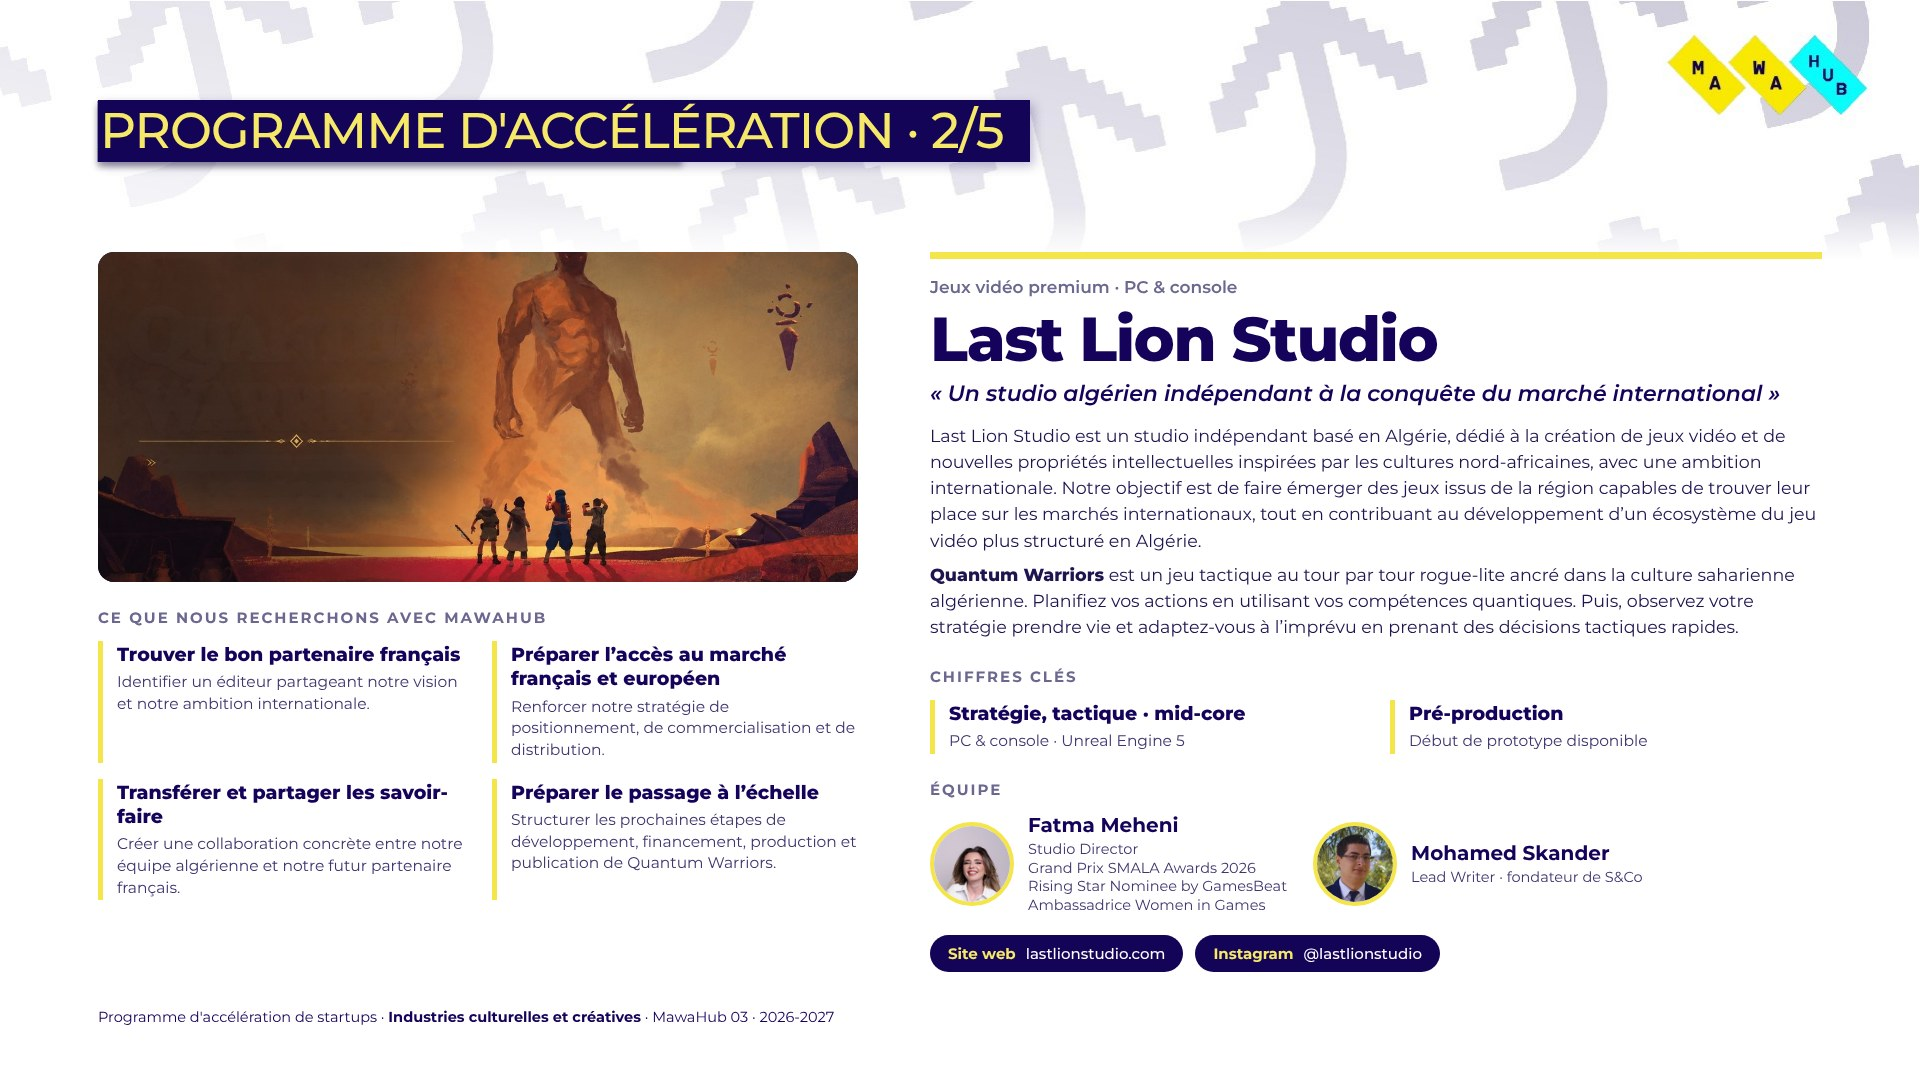
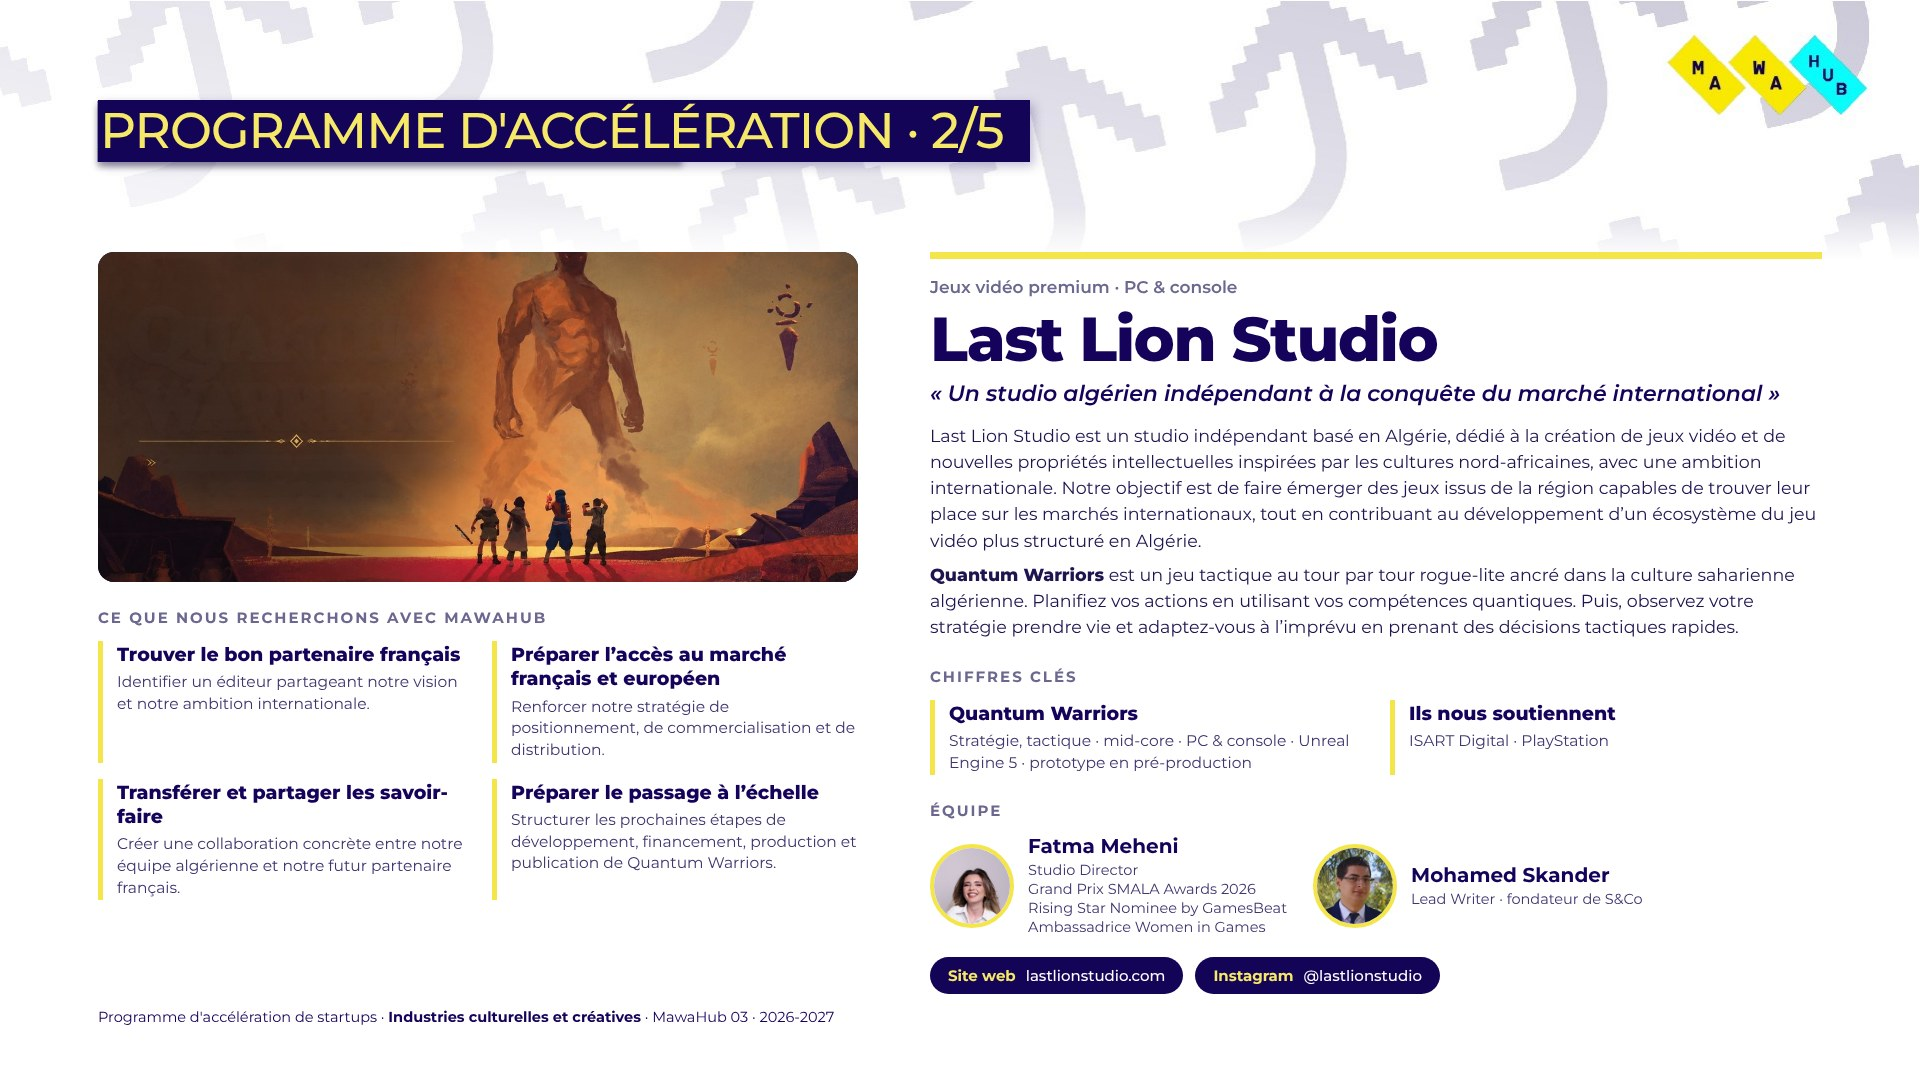
Accélération : soutiens de Last Lion Studio (ISART Digital, PlayStation)
Claude-Session: https://claude.ai/code/session_01QrjwZoKhcSYU2KQQ7JQuyG

Changed region(s): [[0.4688, 0.6417, 0.8438, 0.9472], [0.7188, 0.6417, 0.8438, 0.7028]]

diff --git a/acceleration-2026-2027/index.html b/acceleration-2026-2027/index.html
@@ -112,7 +112,7 @@
     { t: 'MawaHub 03 · Programme d’accélération' },
     { t: 'Déroulé du programme d’accélération' },
     { t: 'Accélération · Nebul’Art' },
-    { t: 'Accélération · Last Lion Studio', links: [{ x: 465, y: 467.5, w: 126.7, h: 18.5, href: 'https://www.lastlionstudio.com/', label: 'Site web de Last Lion Studio' }, { x: 597.7, y: 467.5, w: 122.3, h: 18.5, href: 'https://www.instagram.com/lastlionstudio/', label: 'Instagram de Last Lion Studio' }] },
+    { t: 'Accélération · Last Lion Studio', links: [{ x: 465, y: 478.4, w: 126.7, h: 18.5, href: 'https://www.lastlionstudio.com/', label: 'Site web de Last Lion Studio' }, { x: 597.7, y: 478.4, w: 122.3, h: 18.5, href: 'https://www.instagram.com/lastlionstudio/', label: 'Instagram de Last Lion Studio' }] },
     { t: 'Accélération · Trendify' },
     { t: 'Accélération · zLABsh' },
     { t: 'Accélération · Les Petits Bâtisseurs' },
